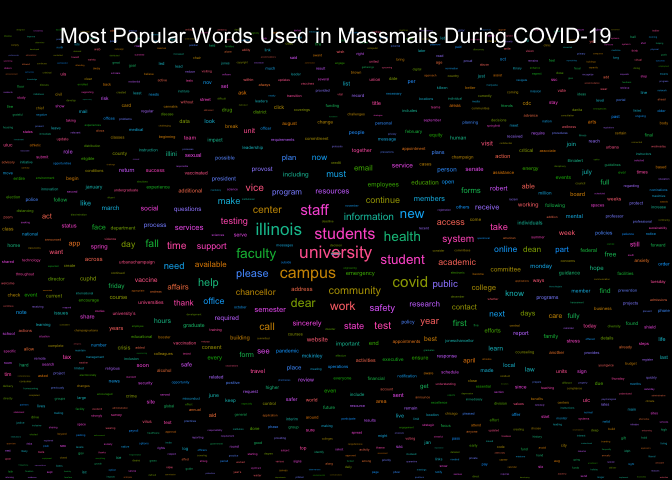
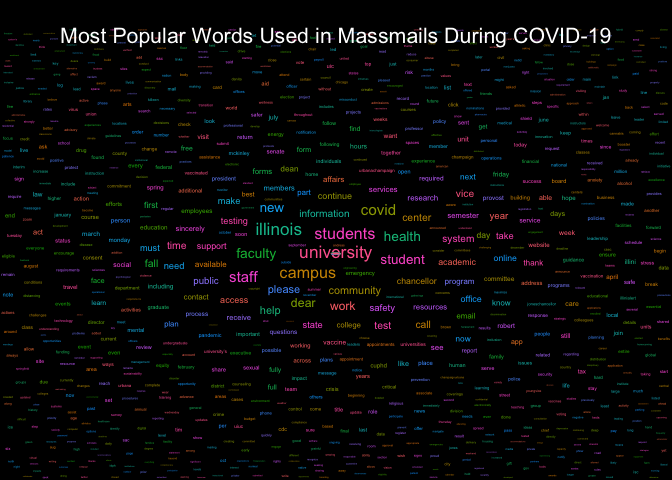
Re-build README.Rmd and Graphs

Changed region(s): [[0.0, 0.0625, 1.0, 1.0], [0.4062, 0.5, 0.4375, 0.5312]]

diff --git a/README.md b/README.md
@@ -17,7 +17,7 @@ The archive may be viewed here:
 
 <https://massmail.illinois.edu/massmailArchive>
 
-Data has **1890** observations and **7** variables:
+Data has **1891** observations and **7** variables:
 
 - `datetime`: Date and time when the email was sent in the form of
   `YYYY-MM-DD HMS` with either CDT or CST.
@@ -211,15 +211,15 @@ head(most_popular_words, 10) %>%
 | word        | freq |
 |:------------|-----:|
 | university  | 2501 |
-| students    | 2061 |
-| campus      | 1808 |
+| students    | 2062 |
+| campus      | 1813 |
 | illinois    | 1699 |
 | student     | 1253 |
-| faculty     | 1168 |
+| faculty     | 1169 |
 | health      | 1098 |
-| community   | 1086 |
+| community   | 1088 |
 | covid       | 1070 |
-| information | 1031 |
+| information | 1032 |
 
 #### Wordcloud
 
